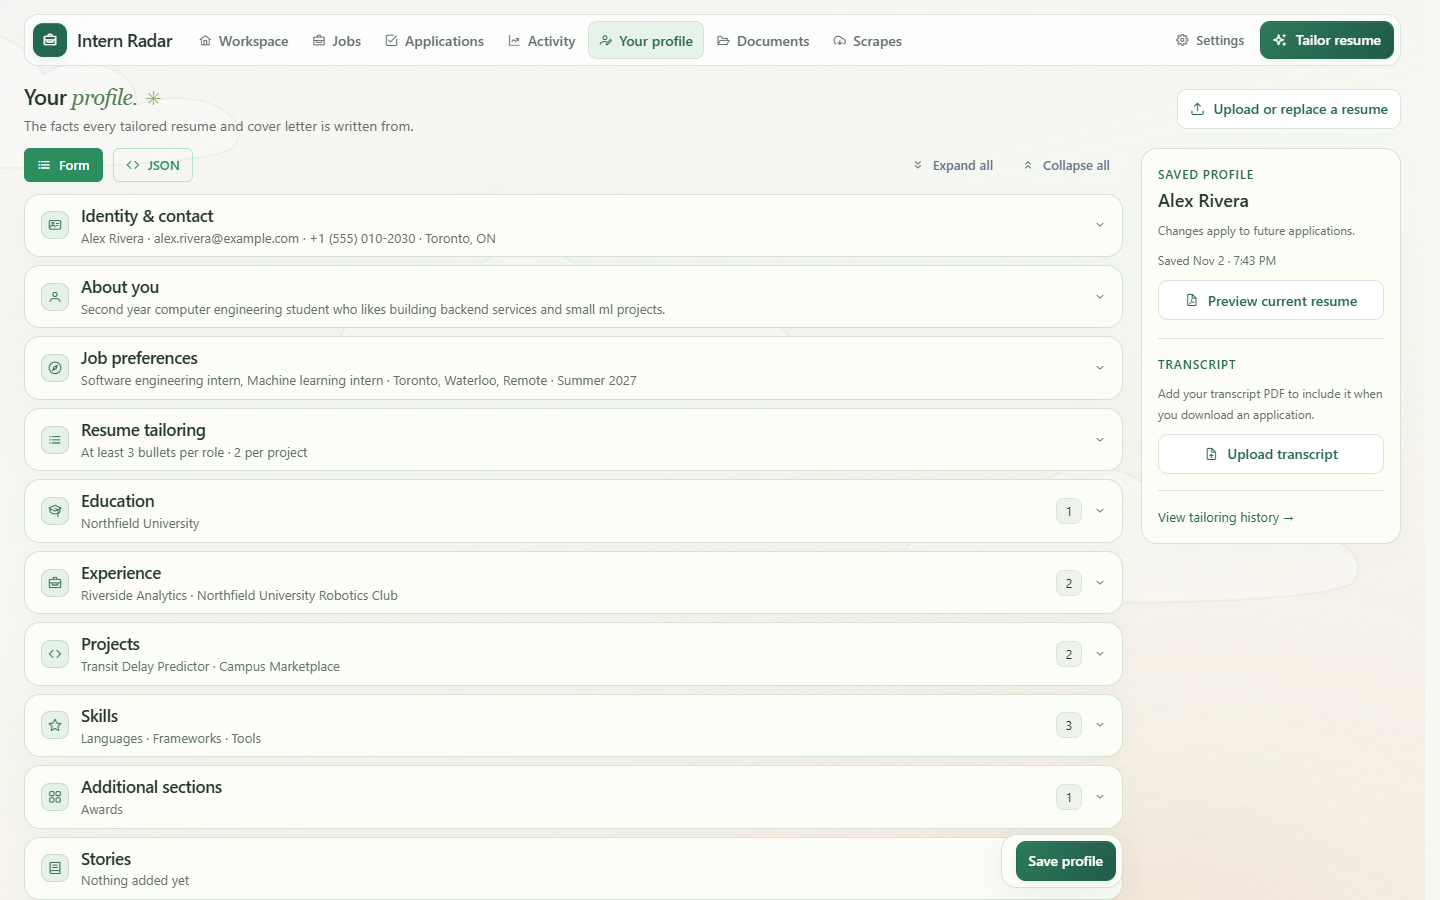
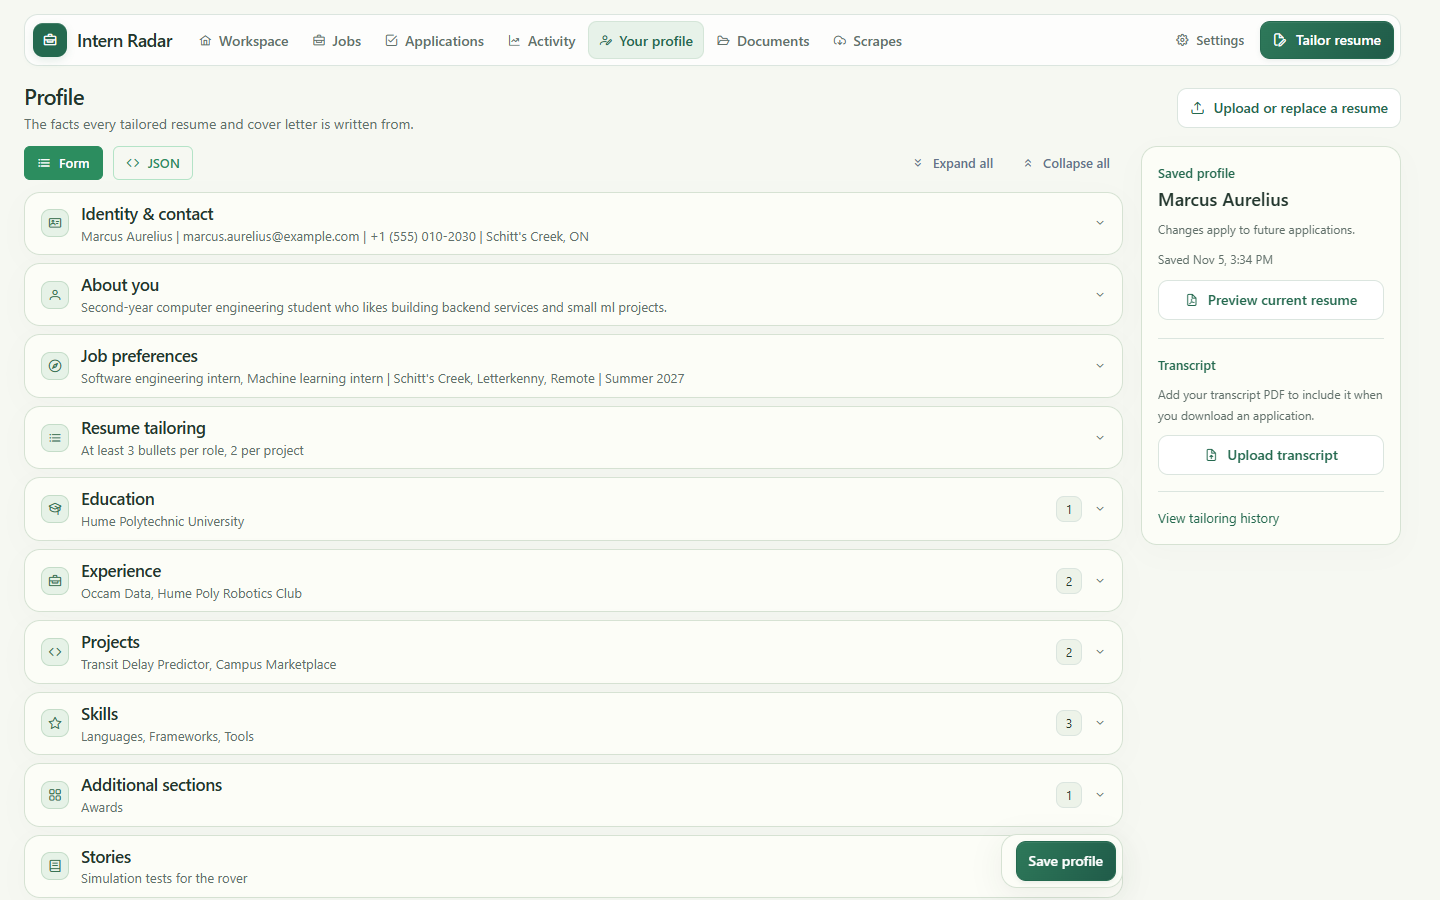
feat: extend scoring with state handling

diff --git a/backend/src/job_backend/matching/scoring.py b/backend/src/job_backend/matching/scoring.py
@@ -1,2 +1,3 @@
 import math
 import re
+from dataclasses import dataclass, field

diff --git a/backend/src/job_backend/jobs/descriptions.py b/backend/src/job_backend/jobs/descriptions.py
@@ -1,2 +1,3 @@
 import json
 import re
+from html import unescape
